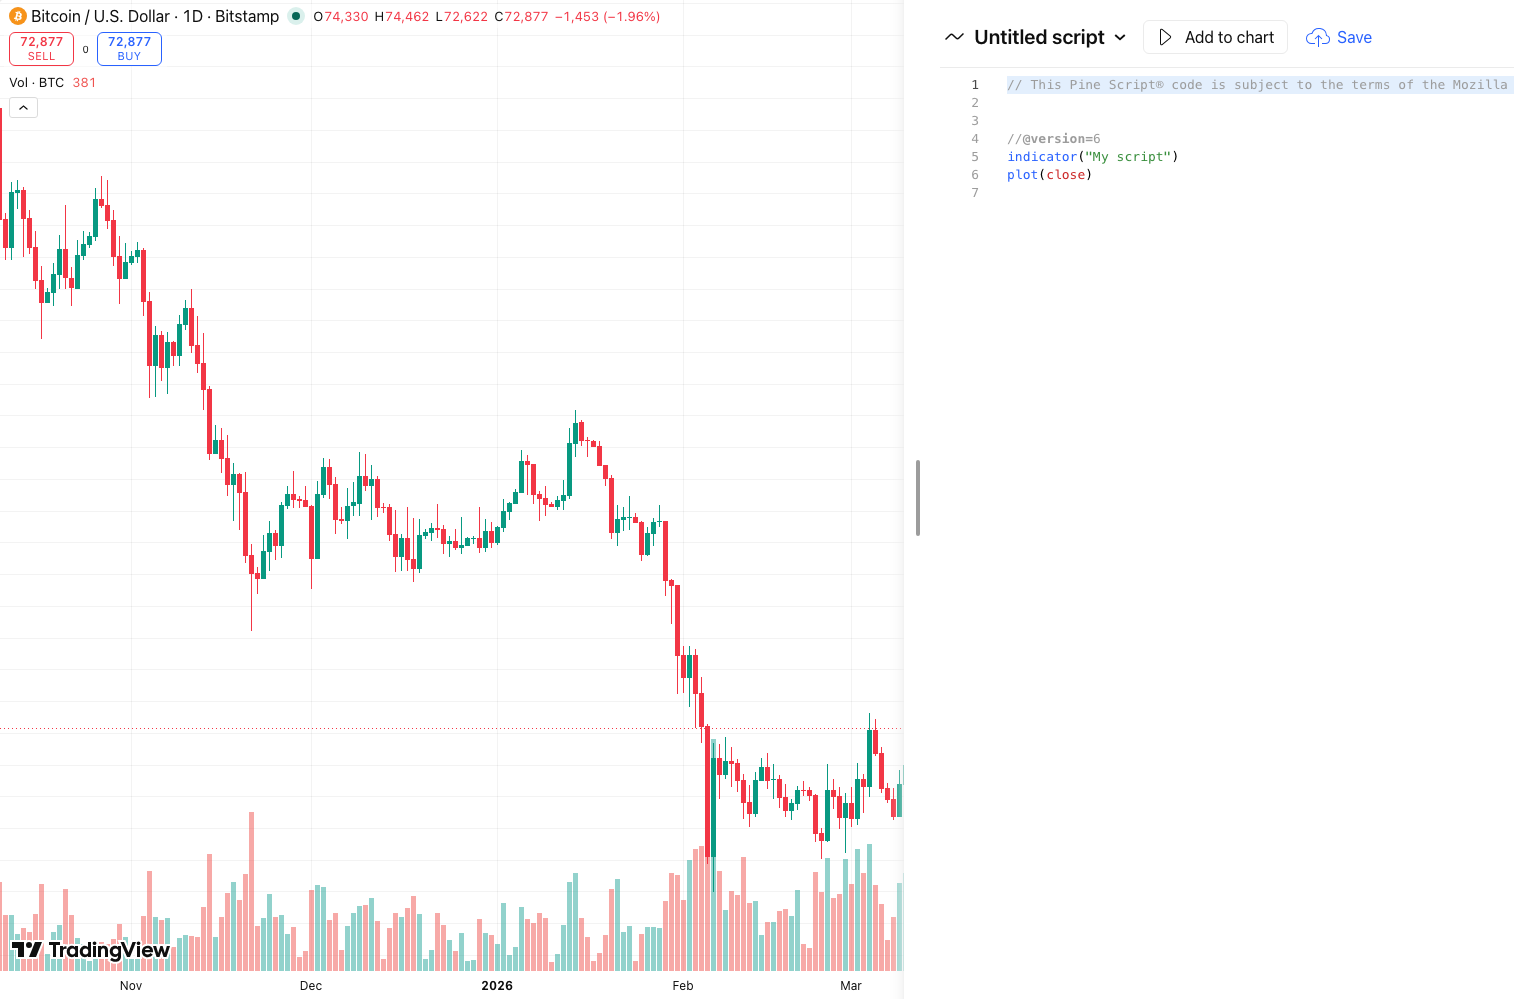
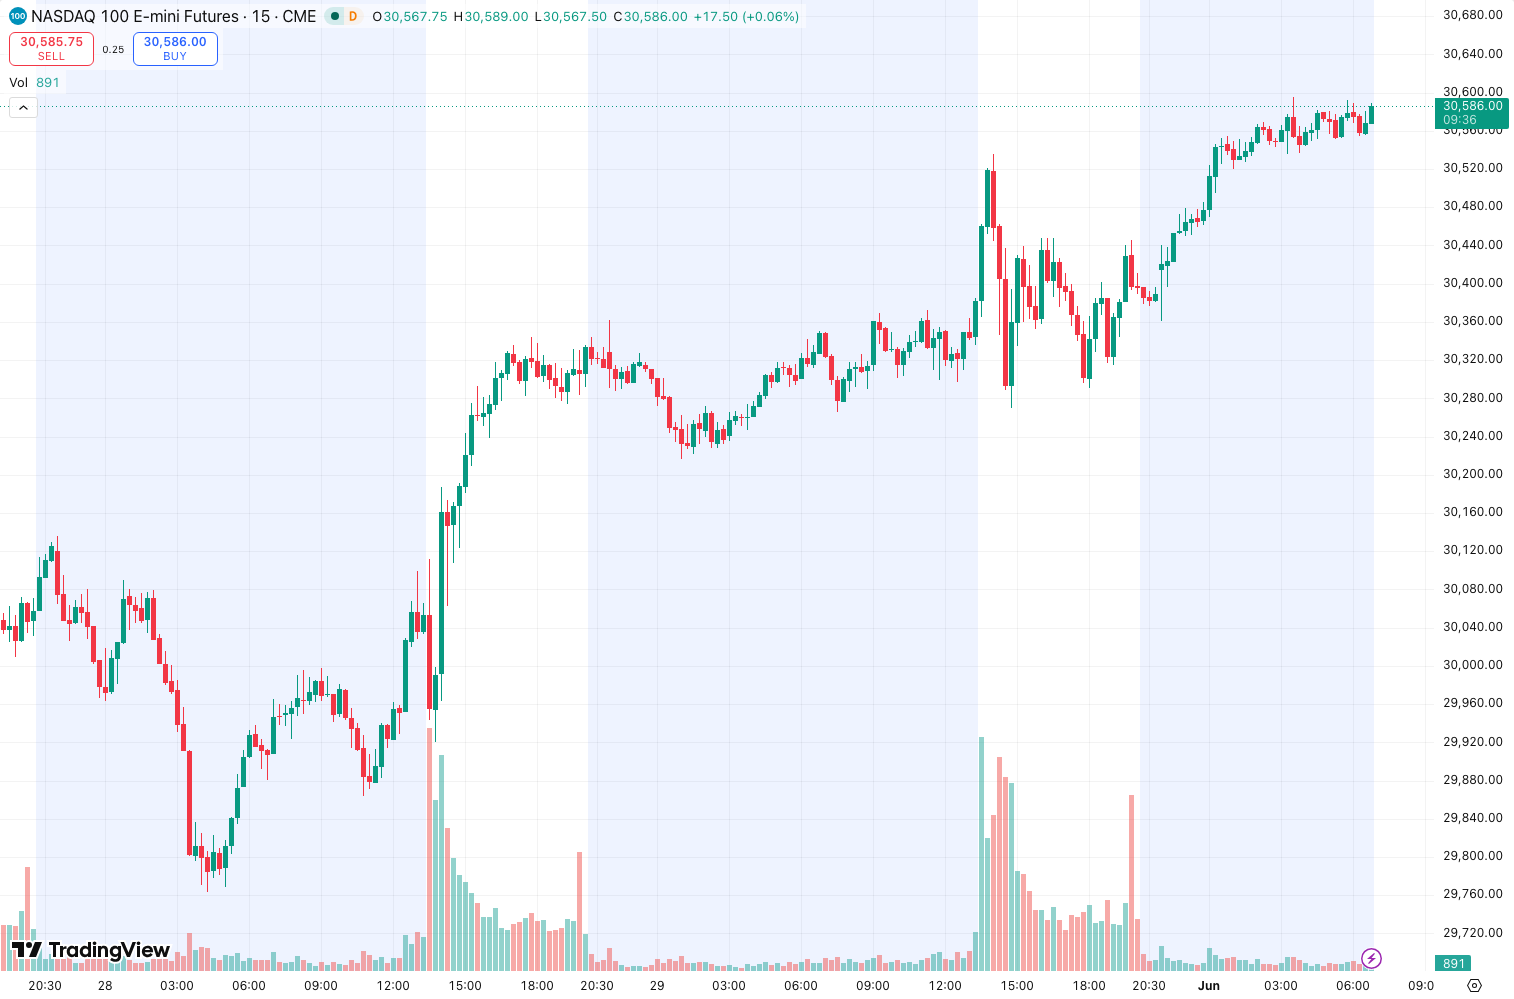
🔬 Add review: Liquidity_Sweep_Pro

diff --git a/content/reviews/liquidity-sweep-pro.md b/content/reviews/liquidity-sweep-pro.md
@@ -1,0 +1,112 @@
+---
+title: "Liquidity_Sweep_Pro Review: Settings, Strategy &amp; How to Use It"
+date: 2026-06-01
+draft: false
+type: reviews
+image: "/screenshots/liquidity-sweep-pro.png"
+tags:
+  - liquidity sweep pro
+  - trend
+  - tradingview
+  - indicator
+  - review
+  - trading
+categories:
+  - Trend
+  - Technical Analysis
+rating: 4
+description: "Liquidity_Sweep_Pro TradingView indicator review: settings, strategy, and how to use it for trend trading. Expert analysis with chart examples."
+---
+
+<script type="application/ld+json">
+{
+  "@context": "https://schema.org",
+  "@type": "SoftwareApplication",
+  "name": "Liquidity_Sweep_Pro",
+  "applicationCategory": "TradingView Indicator",
+  "operatingSystem": "TradingView",
+  "description": "Liquidity_Sweep_Pro TradingView indicator review: settings, strategy, and how to use it for trend trading. Expert analysis with chart examples.",
+  "aggregateRating": {
+    "@type": "AggregateRating",
+    "ratingValue": "4",
+    "bestRating": "5",
+    "ratingCount": "1"
+  }
+}
+</script>
+
+# Liquidity_Sweep_Pro Review
+
+The Liquidity_Sweep_Pro is a trend indicator for TradingView. It helps traders identify market conditions and potential entry points with clear visual signals. Used correctly alongside volume and price action analysis, this indicator has earned its place in many traders' toolkits.
+
+![Liquidity_Sweep_Pro TradingView indicator chart screenshot](/screenshots/liquidity-sweep-pro.png "Liquidity_Sweep_Pro indicator on TradingView")
+
+<!--more-->
+
+## Key Features
+
+- Identifies trend direction and strength with minimal lag
+- Automatically adapts to changing market conditions
+- Clear buy/sell signals with visual confirmation
+
+## Best Settings for Liquidity_Sweep_Pro
+
+| Trading Style | Recommended Setting |
+|-------------|-------------------|
+| Short-term | 10-20 period |
+| Medium-term | 20-50 period |
+| Long-term | 50-200 period |
+
+## How to Use Liquidity_Sweep_Pro
+
+1. Add to any chart — the indicator plots directly on price or in a separate pane
+1. Use crossovers or line slope changes as entry/exit signals
+1. Combine with volume analysis to confirm trend strength
+1. Use higher timeframes for trend direction, lower for entries
+
+## Pros & Cons
+
+### Pros
+    - Reduces noise compared to raw price action
+    - Clear visual signals — no complex interpretation needed
+    - Works as both a standalone tool and with other indicators
+
+### Cons
+    - All trend indicators have some inherent lag behind price
+    - Whipsaws in ranging markets — needs a volatility filter
+    - Parameter selection significantly affects signal quality
+
+## Who Is This For?
+
+- Trend followers who want automated trend detection
+- Swing traders who enter on pullbacks in established trends
+- Position traders who hold for weeks and need trend confirmation
+
+## Alternatives
+
+- Moving Average: simpler but slower
+- SuperTrend: ATR-based, adaptive
+- ADX: measures strength, not direction
+- Parabolic SAR: stops and reversals
+
+## Frequently Asked Questions
+
+### How do I know which period to use?
+
+Shorter periods (10-20) react faster but produce more false signals. Longer periods (50-200) are slower but more reliable. Match the period to your trading timeframe — 20 for day trading, 50 for swing, 200 for position.
+
+### Does it repaint?
+
+No — all signals are based on closed bars. The indicator will never change a past signal when new bars form.
+
+### Best market for this indicator?
+
+Trend indicators work best in trending markets — stocks in bull runs, trending forex pairs, crypto in established moves. Avoid in sideways/choppy conditions or use with a range filter.
+
+## Final Verdict
+
+**Rating: ⭐⭐⭐⭐ (4/5)**
+
+Solid tool. Does what it claims and does it well.
+
+[View Liquidity_Sweep_Pro on TradingView →](https://www.tradingview.com/scripts/?search=liquidity%20sweep%20pro)